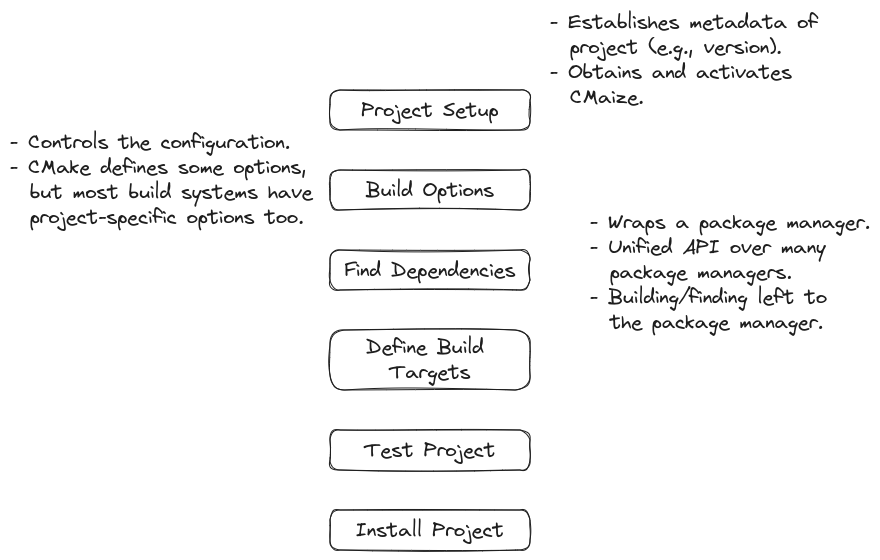
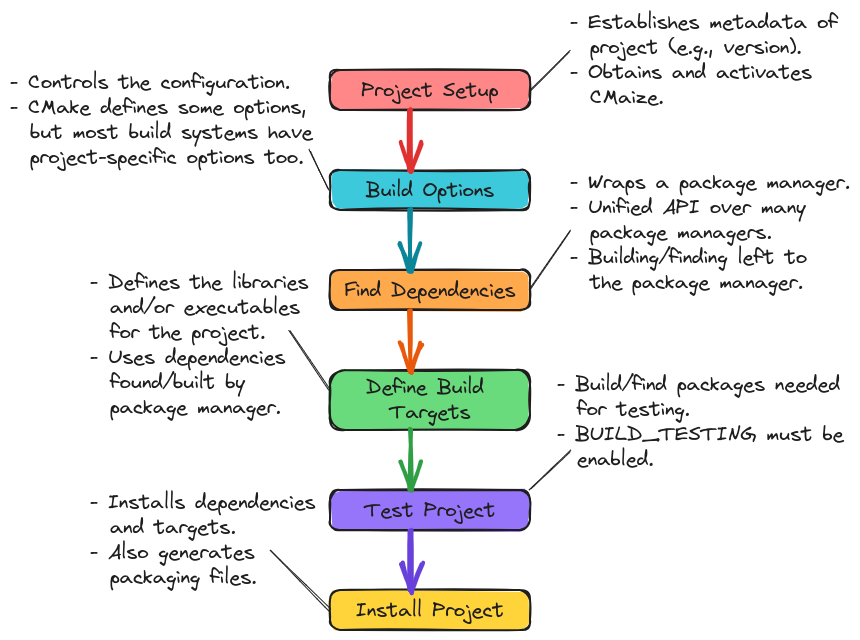
test_project laid out [skip ci]

Changed region(s): [[0.0302, 0.0, 0.9977, 1.0], [0.3326, 0.8804, 0.3628, 0.9107]]

diff --git a/docs/src/developer/design/user_api.rst b/docs/src/developer/design/user_api.rst
@@ -300,15 +300,61 @@ properly configured CMake targets.
 Test Project
 ============
 
+After targets are built the next step is to test that they were built correctly.
+Testing build targets with CMake often requires:
 
-test project components
-   Once all of the targets are defined, the user declares tests which should be
-   run on the targets.
+- finding dependencies of the testing framework,
+- building testing targets which consume the project's build targets, and
+- registering the tests with CTest.
 
-   - Tests often require their own dependencies and targets. Dependencies and
-     targets pertaining to testing should only be found/built if testing
-     is enabled.
-   - Again, the package manager should be kept in the loop.
+It is also worth noting that tests are often built conditionally (e.g., a
+:term:`build system` typically does not build the tests of dependencies built
+during the "Find Dependencies" step). To that end CMake defines the
+``BUILD_TESTING`` variable; when set to ``TRUE`` tests are built, otherwise they
+are not. Proposed CMaize APIs for testing a project:
+
+.. code-block:: CMake
+
+   cmaize_find_or_build_test_dependency(
+       <name>
+       URL <where_on_the_internet_to_download_from>
+       VERSION <the_version_you_want>
+       BUILD_TARGET <target_to_build>
+       FIND_TARGET <target_representing_package>
+       CMAKE_ARGS <configuration_options_to_set>
+   )
+
+   cmaize_add_test_library(
+       <name>
+       SOURCE_DIR <where_the_source_files_are_located>
+       INCLUDE_DIRS <directories_containing_header_files>
+       DEPENDS <dependency0> <dependency1> ...
+   )
+
+   cmaize_add_test_executable(
+       <name>
+       SOURCE_DIR <where_the_source_files_are_located>
+       INCLUDE_DIRS <directories_containing_header_files>
+       DEPENDS <dependency0> <dependency1> ...
+   )
+
+   # This is actually CTest's add_test command
+   add_test(NAME <name> COMMAND)
+
+   # This is a convenience function for the common scenario where the
+   # add_test call simply calls the executable arising from the
+   # cmaize_add_test_executable
+   cmaize_add_test(
+       <name>
+       SOURCE_DIR <where_the_source_files_are_located>
+       INCLUDE_DIRS <directories_containing_header_files>
+       DEPENDS <dependency0> <dependency1> ...
+   )
+
+All of the test functions are thin wrappers around the non-test functions of
+the same name (e.g., ``cmaize_add_test_library`` wraps ``cmaize_add_library``),
+which hide the logic for including the CTest CMake module, and checking that
+``BUILD_TESTING`` is enabled (if it's not the functions are no-ops).
 
 Install Project
 ===============
